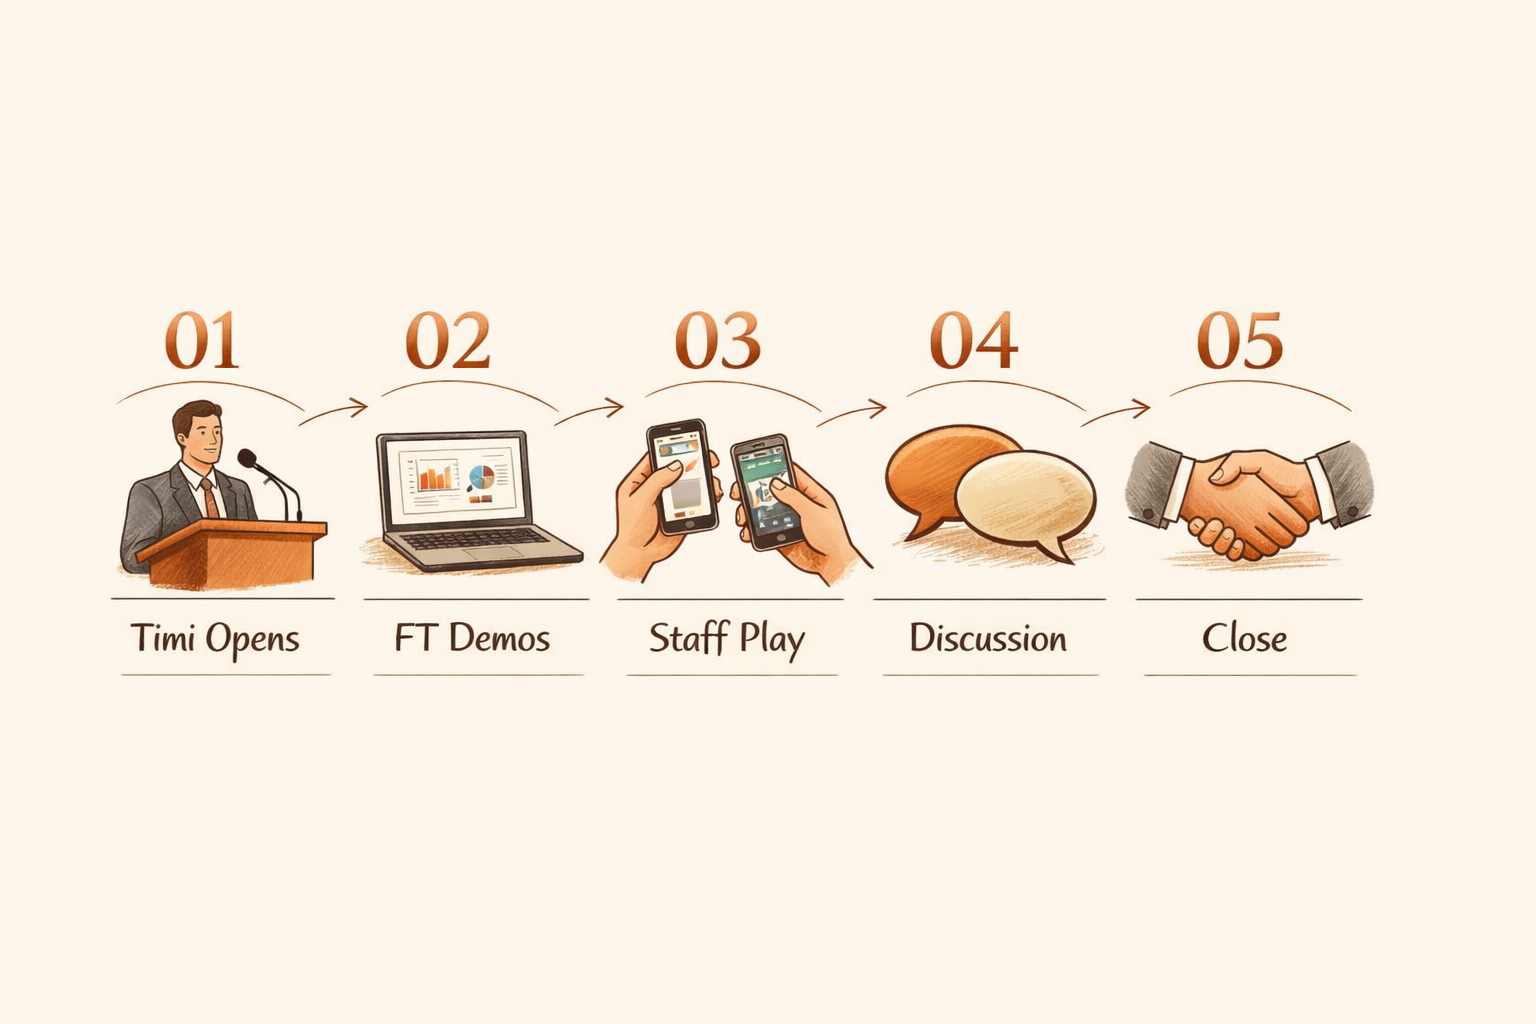
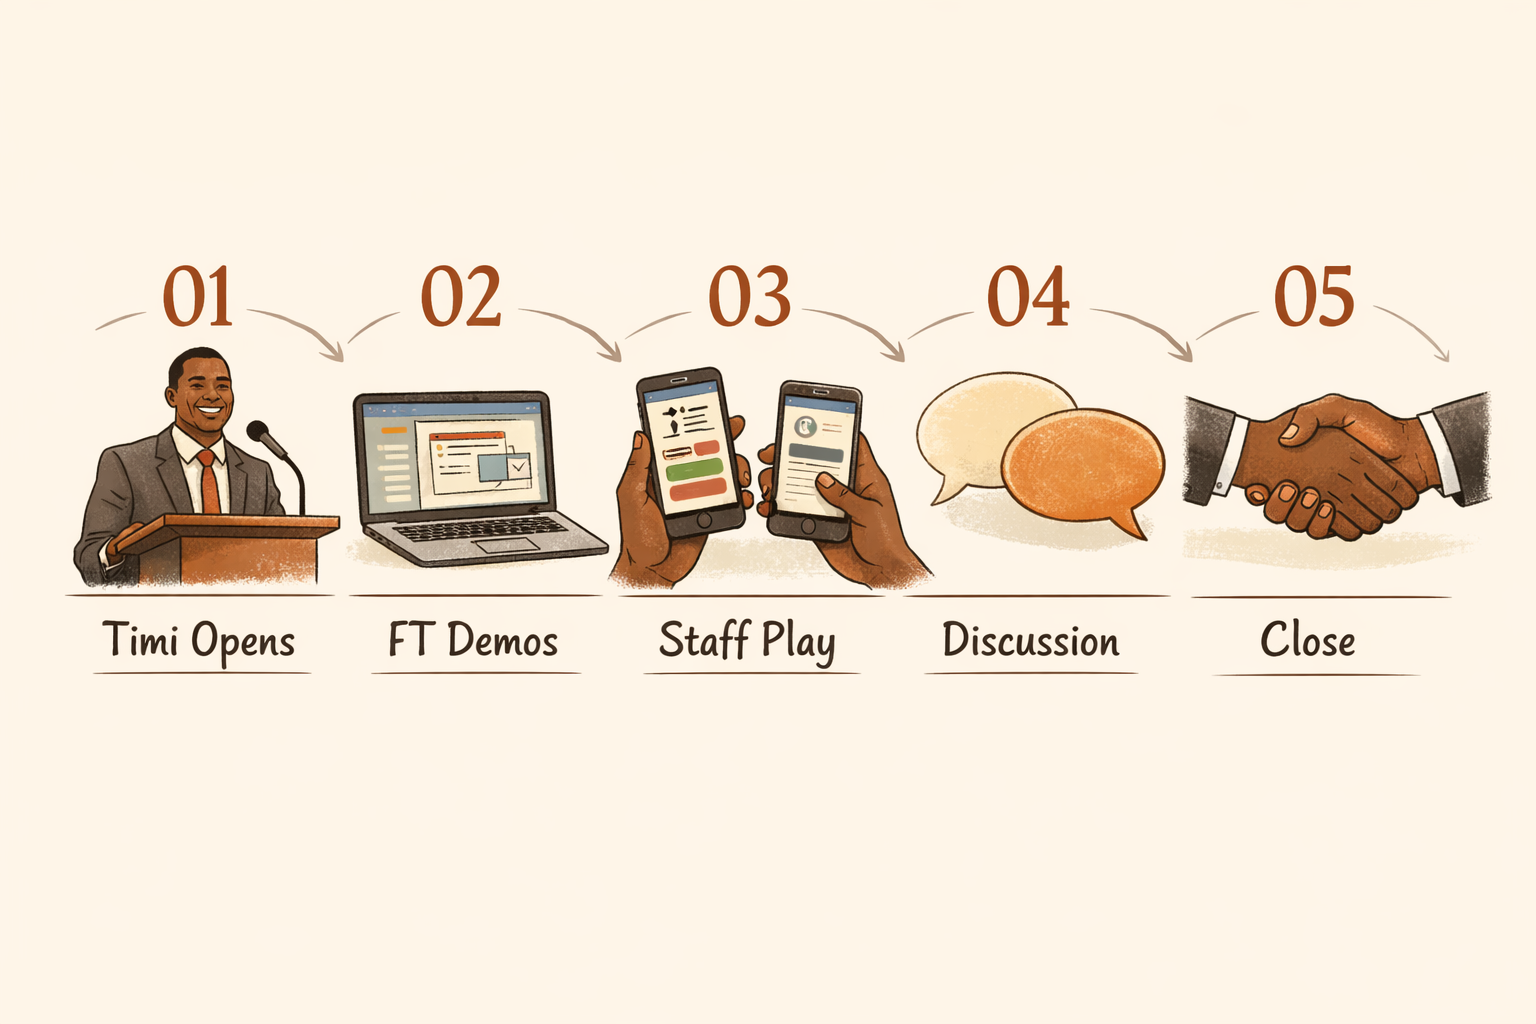
Light mode redesign + Nigerian representation in all images
- Redesigned entire CSS from dark to warm cream light mode (#FAFAF8)
- White cards, warm borders, amber accents — matches brand aesthetic
- Regenerated all 3 images with Black Nigerian people (was white)
- Flow diagram: Nigerian man at podium, correct 5-phase labels
- Demo screen: Nigerian man presenting laptop on Zoom
- Staff play: Nigerian hands holding phones with quiz UI
- Cost: $0.09 for 3 regenerated images (running total: $0.205)

Changed region(s): [[0.0312, 0.25, 0.9688, 0.6875], [0.9062, 0.3125, 0.9375, 0.3438]]

diff --git a/demo-speaker-notes.html b/demo-speaker-notes.html
@@ -6,64 +6,64 @@
 <title>PRL Demo — FT Speaker Notes</title>
 <style>
 * { margin: 0; padding: 0; box-sizing: border-box; }
-body { font-family: -apple-system, 'Helvetica Neue', 'Segoe UI', sans-serif; background: #0a0a0a; color: #e0e0e0; padding: 16px; max-width: 600px; margin: 0 auto; line-height: 1.6; font-size: 15px; -webkit-text-size-adjust: 100%; }
-h1 { font-size: 20px; color: #fff; margin-bottom: 4px; font-weight: 700; }
-.meta { font-size: 13px; color: #888; margin-bottom: 16px; }
-.phase { border: 1px solid #333; border-radius: 8px; margin-bottom: 12px; overflow: hidden; }
+body { font-family: -apple-system, 'Helvetica Neue', 'Segoe UI', sans-serif; background: #FAFAF8; color: #333; padding: 16px; max-width: 600px; margin: 0 auto; line-height: 1.6; font-size: 15px; -webkit-text-size-adjust: 100%; }
+h1 { font-size: 20px; color: #1a1a1a; margin-bottom: 4px; font-weight: 700; }
+.meta { font-size: 13px; color: #777; margin-bottom: 16px; }
+.phase { border: 1px solid #e0d8d0; border-radius: 8px; margin-bottom: 12px; overflow: hidden; background: #fff; box-shadow: 0 1px 3px rgba(0,0,0,0.04); }
 .phase-header { padding: 12px 14px; cursor: pointer; display: flex; justify-content: space-between; align-items: center; }
-.phase-header h2 { font-size: 15px; margin: 0; font-weight: 600; }
+.phase-header h2 { font-size: 15px; margin: 0; font-weight: 600; color: #1a1a1a; }
 .phase-header .time { font-size: 13px; color: #888; white-space: nowrap; margin-left: 8px; }
 .phase-body { padding: 0 14px 14px; display: none; }
 .phase.open .phase-body { display: block; }
 .phase.open .arrow { transform: rotate(90deg); }
-.arrow { color: #666; transition: transform 0.2s; font-size: 14px; }
-.p-timi .phase-header { background: #1a1a2e; border-bottom: 1px solid #333; }
-.p-nico .phase-header { background: #1e2a1e; border-bottom: 1px solid #333; }
-.p-staff .phase-header { background: #2a1e1e; border-bottom: 1px solid #333; }
-.p-close .phase-header { background: #2a2a1e; border-bottom: 1px solid #333; }
-.p-read .phase-header { background: #2a1a2a; border-bottom: 1px solid #333; }
-.p-setup .phase-header { background: #1a2020; border-bottom: 1px solid #333; }
-.say { background: #111; border-left: 3px solid #4a9; padding: 10px 12px; margin: 8px 0; border-radius: 0 4px 4px 0; font-size: 15px; }
-.say::before { content: '💬 SAY: '; font-weight: bold; color: #4a9; }
-.do { background: #111; border-left: 3px solid #a94; padding: 10px 12px; margin: 8px 0; border-radius: 0 4px 4px 0; font-size: 15px; }
-.do::before { content: '👆 DO: '; font-weight: bold; color: #a94; }
-.note { background: #111; border-left: 3px solid #94a; padding: 10px 12px; margin: 8px 0; border-radius: 0 4px 4px 0; font-size: 15px; }
-.note::before { content: '📌 NOTE: '; font-weight: bold; color: #94a; }
-.warn { background: #1a1111; border-left: 3px solid #a44; padding: 10px 12px; margin: 8px 0; border-radius: 0 4px 4px 0; font-size: 15px; }
+.arrow { color: #aaa; transition: transform 0.2s; font-size: 14px; }
+.p-timi .phase-header { background: #f0ebe5; border-bottom: 1px solid #e0d8d0; }
+.p-nico .phase-header { background: #eaf3ea; border-bottom: 1px solid #e0d8d0; }
+.p-staff .phase-header { background: #f5ede8; border-bottom: 1px solid #e0d8d0; }
+.p-close .phase-header { background: #f5f3e8; border-bottom: 1px solid #e0d8d0; }
+.p-read .phase-header { background: #f0e8f0; border-bottom: 1px solid #e0d8d0; }
+.p-setup .phase-header { background: #e8f0f0; border-bottom: 1px solid #e0d8d0; }
+.say { background: #f5faf7; border-left: 3px solid #2d7a5a; padding: 10px 12px; margin: 8px 0; border-radius: 0 4px 4px 0; font-size: 15px; }
+.say::before { content: '💬 SAY: '; font-weight: bold; color: #2d7a5a; }
+.do { background: #fffaf0; border-left: 3px solid #b45309; padding: 10px 12px; margin: 8px 0; border-radius: 0 4px 4px 0; font-size: 15px; }
+.do::before { content: '👆 DO: '; font-weight: bold; color: #b45309; }
+.note { background: #f5f5fa; border-left: 3px solid #6366f1; padding: 10px 12px; margin: 8px 0; border-radius: 0 4px 4px 0; font-size: 15px; }
+.note::before { content: '📌 NOTE: '; font-weight: bold; color: #6366f1; }
+.warn { background: #fef2f2; border-left: 3px solid #dc2626; padding: 10px 12px; margin: 8px 0; border-radius: 0 4px 4px 0; font-size: 15px; }
 .warn::before { content: '⚠ '; font-weight: bold; }
-.branch { background: #1a1520; border-left: 3px solid #a4a; padding: 10px 12px; margin: 8px 0; border-radius: 0 4px 4px 0; font-size: 15px; }
-.branch::before { content: '🔀 IF: '; font-weight: bold; color: #a4a; }
-.cut { opacity: 0.6; border: 1px dashed #444; border-radius: 4px; padding: 8px 10px; margin: 8px 0; font-size: 13px; }
-.cut::before { content: '✂ CAN CUT — '; font-weight: bold; color: #666; }
+.branch { background: #faf5ff; border-left: 3px solid #9333ea; padding: 10px 12px; margin: 8px 0; border-radius: 0 4px 4px 0; font-size: 15px; }
+.branch::before { content: '🔀 IF: '; font-weight: bold; color: #9333ea; }
+.cut { opacity: 0.5; border: 1px dashed #bbb; border-radius: 4px; padding: 8px 10px; margin: 8px 0; font-size: 13px; }
+.cut::before { content: '✂ CAN CUT — '; font-weight: bold; color: #999; }
 ul { padding-left: 20px; margin: 6px 0; font-size: 15px; }
 li { margin: 4px 0; }
-.stat { color: #f90; font-weight: bold; }
-.room { background: #151520; border: 1px solid #333; border-radius: 6px; padding: 12px 14px; margin-bottom: 12px; }
+.stat { color: #b45309; font-weight: bold; }
+.room { background: #fff; border: 1px solid #e0d8d0; border-radius: 6px; padding: 12px 14px; margin-bottom: 12px; }
 .room h3 { font-size: 14px; color: #888; margin-bottom: 6px; }
-.links { background: #151515; border: 1px solid #333; border-radius: 6px; padding: 12px 14px; margin-bottom: 12px; }
-.links a { color: #4a9; text-decoration: none; display: block; padding: 6px 0; font-size: 15px; }
-.expand-all { background: #222; color: #888; border: 1px solid #444; padding: 8px 14px; border-radius: 4px; font-size: 13px; cursor: pointer; float: right; font-family: inherit; }
+.links { background: #fff; border: 1px solid #e0d8d0; border-radius: 6px; padding: 12px 14px; margin-bottom: 12px; }
+.links a { color: #2d7a5a; text-decoration: none; display: block; padding: 6px 0; font-size: 15px; }
+.expand-all { background: #fff; color: #777; border: 1px solid #ddd; padding: 8px 14px; border-radius: 4px; font-size: 13px; cursor: pointer; float: right; font-family: inherit; }
 .timer { font-size: 13px; color: #888; text-align: center; margin-bottom: 12px; }
-.rule { background: #1a2520; border: 2px solid #4a9; border-radius: 8px; padding: 14px; margin-bottom: 12px; }
-.rule h3 { color: #4a9; font-size: 16px; margin-bottom: 6px; }
-.fallback { border: 1px solid #a44; border-radius: 8px; padding: 14px; margin-top: 12px; }
-.fallback h3 { color: #a44; font-size: 16px; margin-bottom: 8px; }
-hr { border: none; border-top: 1px solid #222; margin: 12px 0; }
+.rule { background: #f0faf5; border: 2px solid #2d7a5a; border-radius: 8px; padding: 14px; margin-bottom: 12px; }
+.rule h3 { color: #2d7a5a; font-size: 16px; margin-bottom: 6px; }
+.fallback { background: #fef7f7; border: 1px solid #dc2626; border-radius: 8px; padding: 14px; margin-top: 12px; }
+.fallback h3 { color: #dc2626; font-size: 16px; margin-bottom: 8px; }
+hr { border: none; border-top: 1px solid #e0d8d0; margin: 12px 0; }
 .setup-grid { display: grid; grid-template-columns: auto 1fr; gap: 4px 12px; font-size: 15px; }
-.setup-grid dt { color: #888; font-weight: 600; }
-.setup-grid dd { color: #e0e0e0; }
-.btn { display: block; background: #1a2a2a; border: 1px solid #3a5a5a; color: #5cb; text-decoration: none; padding: 12px 16px; border-radius: 8px; margin: 6px 0; font-size: 15px; font-weight: 500; text-align: center; -webkit-tap-highlight-color: rgba(0,0,0,0); }
-.btn:active { background: #2a3a3a; transform: scale(0.98); }
-.btn .btn-num { color: #888; font-size: 13px; }
+.setup-grid dt { color: #777; font-weight: 600; }
+.setup-grid dd { color: #333; }
+.btn { display: block; background: #fff; border: 1px solid #d4cdc0; color: #2d7a5a; text-decoration: none; padding: 12px 16px; border-radius: 8px; margin: 6px 0; font-size: 15px; font-weight: 500; text-align: center; -webkit-tap-highlight-color: rgba(0,0,0,0); box-shadow: 0 1px 2px rgba(0,0,0,0.05); }
+.btn:active { background: #f5f5f2; transform: scale(0.98); }
+.btn .btn-num { color: #999; font-size: 13px; }
 .btn-row { display: grid; grid-template-columns: 1fr 1fr; gap: 8px; margin: 8px 0; }
 .btn-row .btn { font-size: 14px; padding: 10px 12px; }
-.flow-banner { display: flex; align-items: center; justify-content: center; gap: 0; background: linear-gradient(135deg, #1a1510, #151520); border: 2px solid #3a3020; border-radius: 12px; padding: 16px 8px; margin-bottom: 16px; }
+.flow-banner { display: flex; align-items: center; justify-content: center; gap: 0; background: #fff; border: 2px solid #e0d8d0; border-radius: 12px; padding: 16px 8px; margin-bottom: 16px; box-shadow: 0 1px 3px rgba(0,0,0,0.04); }
 .flow-step { display: flex; flex-direction: column; align-items: center; text-align: center; flex: 1; min-width: 0; }
-.flow-num { font-size: 24px; font-weight: 800; color: #d4a04a; line-height: 1; }
+.flow-num { font-size: 24px; font-weight: 800; color: #b45309; line-height: 1; }
 .flow-icon { font-size: 18px; margin: 4px 0 2px; }
-.flow-label { font-size: 11px; color: #ccc; font-weight: 600; }
-.flow-time { font-size: 10px; color: #666; }
-.flow-arrow { color: #555; font-size: 14px; padding: 0 2px; flex-shrink: 0; }
+.flow-label { font-size: 11px; color: #555; font-weight: 600; }
+.flow-time { font-size: 10px; color: #999; }
+.flow-arrow { color: #ccc; font-size: 14px; padding: 0 2px; flex-shrink: 0; }
 </style>
 </head>
 <body>
@@ -72,7 +72,7 @@ hr { border: none; border-top: 1px solid #222; margin: 12px 0; }
 <h1>PRL DEMO — SPEAKER NOTES</h1>
 <p class="meta">Thu Feb 12 · 1 hour · Zoom · FT = demo (screen share) · Timi = commercial (in room)</p>
 
-<img src="meeting-flow.png" alt="Meeting Flow: Timi Opens → FT Demos → Staff Play → Discussion → Close" style="width:100%;border-radius:12px;margin-bottom:8px;border:2px solid #3a3020;">
+<img src="meeting-flow.png" alt="Meeting Flow: Timi Opens → FT Demos → Staff Play → Discussion → Close" style="width:100%;border-radius:12px;margin-bottom:8px;border:2px solid #e0d8d0;">
 <div class="flow-banner">
 <div class="flow-step"><span class="flow-num">01</span><span class="flow-icon">🎤</span><span class="flow-label">Timi Opens</span><span class="flow-time">10 min</span></div>
 <span class="flow-arrow">→</span>
@@ -109,7 +109,7 @@ hr { border: none; border-top: 1px solid #222; margin: 12px 0; }
 <a class="btn" href="https://ftfc1.github.io/puma-training-demo/course-outline.html"><span class="btn-num">TAB 2</span><br>Course Outline</a>
 </div>
 <div class="btn-row">
-<a class="btn" href="https://t.me/prlpuma_bot" style="background:#1a2030;border-color:#2a4060;color:#6af;"><span class="btn-num">TAB 3 · opens TG app</span><br>@prlpuma_bot</a>
+<a class="btn" href="https://t.me/prlpuma_bot" style="background:#f0f5ff;border-color:#c0d0e8;color:#2563eb;"><span class="btn-num">TAB 3 · opens TG app</span><br>@prlpuma_bot</a>
 <a class="btn" href="https://ftfc1.github.io/puma-training-demo/demo-weekly-report.html"><span class="btn-num">TAB 4</span><br>Weekly Report</a>
 </div>
 
@@ -391,7 +391,7 @@ Flex: If time is tight, compress demo + staff play. If time is long, let discuss
 </div>
 
 <hr>
-<p style="font-size: 10px; color: #444; text-align: center; margin-top: 12px;">Updated Feb 12. Bot: @prlpuma_bot · Group: PUMA LEKKI TRAINING · Open on phone during demo.</p>
+<p style="font-size: 10px; color: #999; text-align: center; margin-top: 12px;">Updated Feb 12. Bot: @prlpuma_bot · Group: PUMA LEKKI TRAINING · Open on phone during demo.</p>
 
 <script>
 function toggle(el) {
